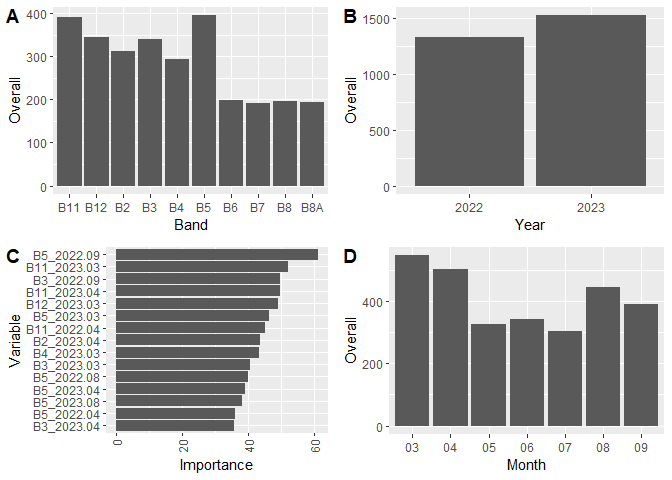
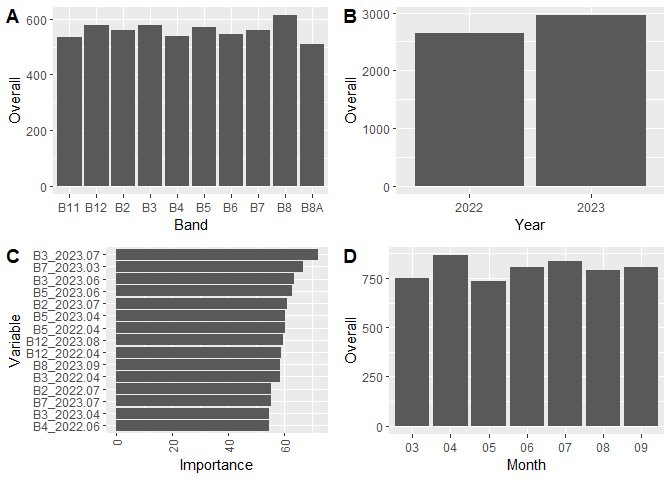
update readme

diff --git a/README.md b/README.md
@@ -6,17 +6,18 @@
 <!-- badges: start -->
 <!-- badges: end -->
 
-`gRasslands` is part of the SUSALPS research project
-(<https://www.susalps.de/en/>), which is researching the sustainable use
-of alpine and pre-alpine grasslands in Southern Germany. A key indicator
-of ecosystem health is the floral biodiversity, which can be measured
-through indices like the species number or the shannon and simpson
-index. The goal of this project was to estimate floral diversity at the
-help of Sentinel-2 reflectances between 2022 and 2023. This package
-provides the functions and code used to train a random forest model with
-the extracted reflectances at the sample plot locations. Species
-inventories sampled in the same plots served as response variable. Parts
-of the data are also available through this package.
+`gRasslands` is part of the [SUSALPS research
+project](https://www.susalps.de/en/), which is researching the
+sustainable use of alpine and pre-alpine grasslands in Southern Germany.
+A key indicator of ecosystem health is the floral biodiversity, which
+can be measured through indices like the species number or the shannon
+and simpson index. The goal of this project was to estimate floral
+diversity with the help of Sentinel-2 reflectances between 2022 and
+2023. This package provides the functions and code used to train a
+random forest model with the extracted reflectances at the sample plot
+locations. Species inventories sampled in the same plots served as
+response variable. Parts of the data are also available through this
+package.
 
 ## 0. Installation
 
@@ -29,13 +30,13 @@ devtools::install_github("Siedrid/gRasslands")
 ## I. Data Preprocessing
 
 In this section you find documentation how your data needs to be
-preprocessed to train your random forest model. This is shown at the
-hand of Sentinel-2 surface reflectances extracted at 60 plot locations
-in Lower Franconia, Bavaria. The Sentinel-2 scenes were atmospherically
-corrected using the MAJA processor (<https://www.cesbio.cnrs.fr/maja/>).
+preprocessed to train your random forest model. This is shown by means
+of Sentinel-2 surface reflectances extracted at 60 plot locations in
+Lower Franconia, Bavaria. The Sentinel-2 scenes were atmospherically
+corrected using the [MAJA processor](https://www.cesbio.cnrs.fr/maja/).
 For some areas Sentinel-2 L2A products (MAJA preprocessed) are freely
-distributed on the THEIA portal:
-<https://theia.cnes.fr/atdistrib/rocket/#/search?collection=SENTINEL2>
+distributed on the [THEIA
+portal](https://theia.cnes.fr/atdistrib/rocket/#/search?collection=SENTINEL2).
 Of course, also the Sentinel-2 L2A products distributed via the
 Copernicus Browser or the Google Earth Engine are suitable for this
 analysis.
@@ -100,13 +101,13 @@ plotted and the plot locations added.
 
 ``` r
 summary(div.df)
-#>   plot_names           shannon          simpson           specn      
-#>  Length:59          Min.   :0.8192   Min.   :0.2763   Min.   :15.00  
-#>  Class :character   1st Qu.:1.9472   1st Qu.:0.7213   1st Qu.:27.00  
-#>  Mode  :character   Median :2.3466   Median :0.8244   Median :32.00  
-#>                     Mean   :2.3232   Mean   :0.7852   Mean   :32.44  
-#>                     3rd Qu.:2.7362   3rd Qu.:0.8921   3rd Qu.:37.50  
-#>                     Max.   :3.5101   Max.   :0.9529   Max.   :52.00  
+#>   plot_names           shannon           simpson            specn      
+#>  Length:59          Min.   :0.02819   Min.   :0.01083   Min.   :10.12  
+#>  Class :character   1st Qu.:0.81288   1st Qu.:0.30712   1st Qu.:20.68  
+#>  Mode  :character   Median :1.74052   Median :0.46006   Median :31.15  
+#>                     Mean   :1.81174   Mean   :0.49094   Mean   :30.57  
+#>                     3rd Qu.:2.78330   3rd Qu.:0.68315   3rd Qu.:43.05  
+#>                     Max.   :3.93927   Max.   :0.99736   Max.   :49.37  
 #>        X                Y          
 #>  Min.   :677759   Min.   :5528198  
 #>  1st Qu.:678610   1st Qu.:5528541  
@@ -165,17 +166,17 @@ print(forest)
 #> 
 #> No pre-processing
 #> Resampling: Cross-Validated (10 fold, repeated 5 times) 
-#> Summary of sample sizes: 38, 38, 40, 39, 40, 38, ... 
+#> Summary of sample sizes: 38, 38, 39, 39, 40, 38, ... 
 #> Resampling results across tuning parameters:
 #> 
 #>   mtry  RMSE      Rsquared   MAE     
-#>     2   5.212698  0.7680533  4.075929
-#>    25   5.307270  0.7299904  4.297927
-#>    48   5.341733  0.7183568  4.353222
-#>    71   5.399386  0.7100851  4.409252
-#>    94   5.439054  0.7046677  4.450530
-#>   117   5.481573  0.6931790  4.479744
-#>   140   5.470326  0.7015584  4.472773
+#>     2   12.35664  0.2148993  10.89479
+#>    25   12.77095  0.2098879  11.39549
+#>    48   12.83464  0.2309922  11.44717
+#>    71   12.93177  0.2119190  11.55964
+#>    94   12.89543  0.2291998  11.52141
+#>   117   12.87095  0.2243601  11.47428
+#>   140   12.97108  0.2226513  11.54687
 #> 
 #> RMSE was used to select the optimal model using the smallest value.
 #> The final value used for the model was mtry = 2.
@@ -252,8 +253,8 @@ composites are stored. After creating a list of these raster composites,
 the rasters are stacked with the terra package and then transformed into
 a brick object. With `predict`, the random forest model `forest` is
 applied to the brick. To mask non-grasslands, we used the High
-Resolution Grassland Layer, provided by Copernicus
-(<https://land.copernicus.eu/en/products/high-resolution-layer-grassland>).
+Resolution Grassland Layer, provided by
+[Copernicus](https://land.copernicus.eu/en/products/high-resolution-layer-grassland).
 We used the 2018 product with a 10m spatial resolution:
 
 ``` r
